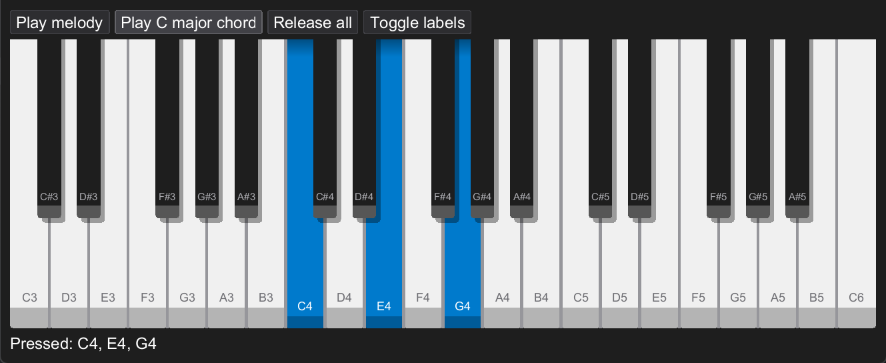
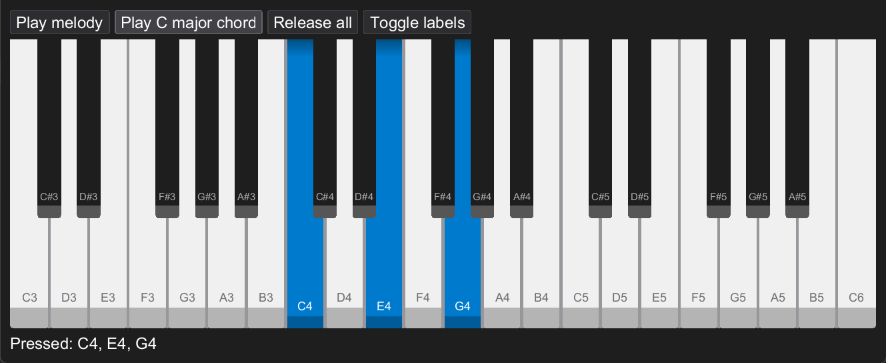
Remove shadow of black keys

diff --git a/src/main/java/de/florianreuth/rivetextras/piano/PianoKeyboard.java b/src/main/java/de/florianreuth/rivetextras/piano/PianoKeyboard.java
@@ -334,10 +334,6 @@ public class PianoKeyboard extends Component {
             final float x = this.whiteIndex(note) * whiteWidth - blackWidth / 2F;
             final float progress = this.pressProgress(note);
             final Color color = this.keyColor(note, progress, blackKeyColor, blackKeyHoverColor, blackKeyPressedColor);
-            final float shadowOffset = pressDepth / 2F * (1 - progress);
-            if (shadowOffset > 0) {
-                renderer.fillRoundedRect(x + shadowOffset, 0, blackWidth, blackHeight + shadowOffset, 0, cornerRadius, cornerRadius, 0, shadowColor);
-            }
             final float faceY = Math.min(blackHeight - blackFaceHeight + pressDepth * progress, blackHeight);
             renderer.fillRect(x, 0, blackWidth, faceY, color);
             renderer.fillRoundedRect(x, faceY, blackWidth, blackHeight - faceY, 0, cornerRadius, cornerRadius, 0, Color.interpolate(faceShade, color, Color.WHITE));
